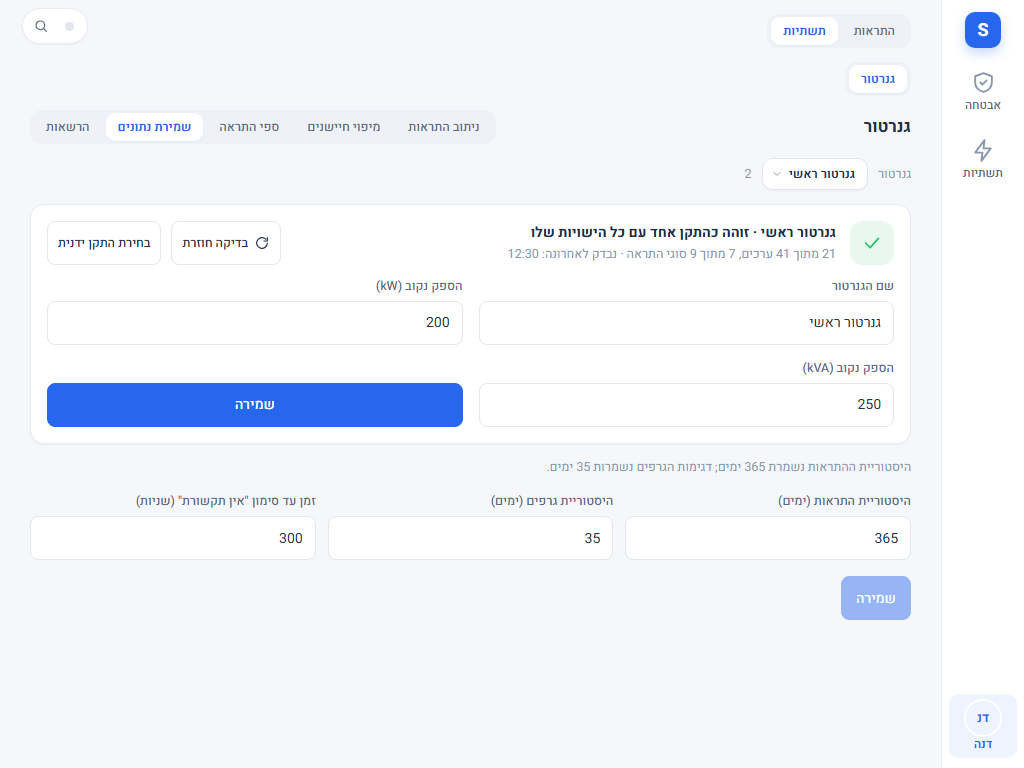
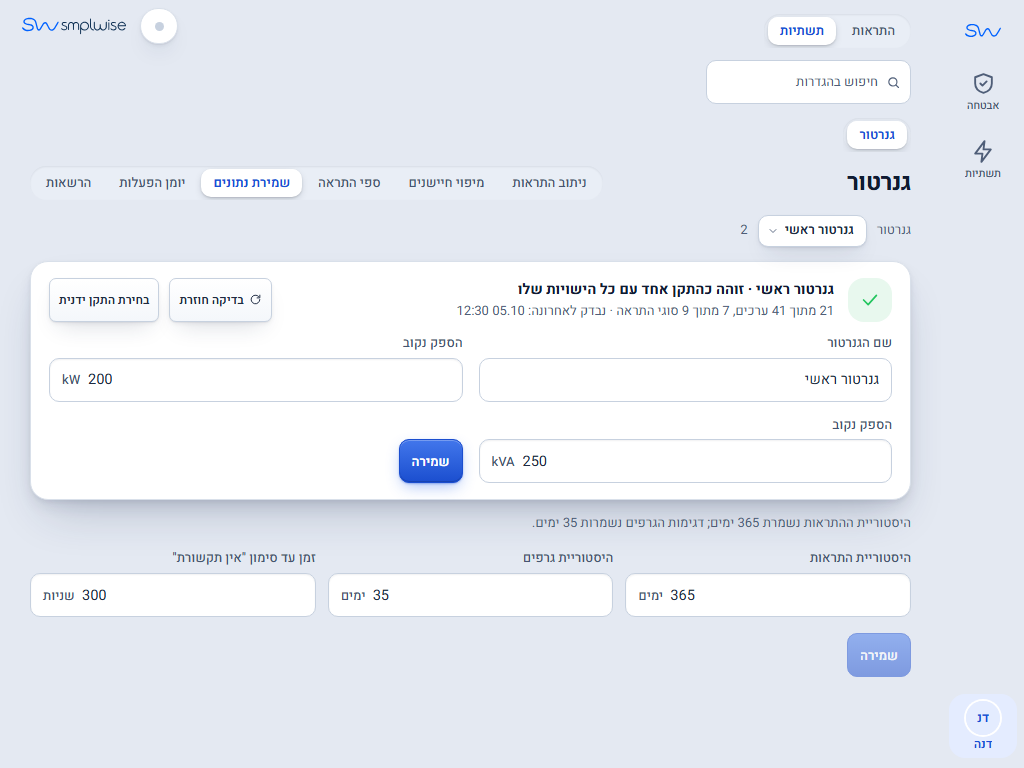
feat(generator): GEN-UNITS-FIELD-2490 - settings units move into the field frame
Rated power, alert thresholds, retention and run-log thresholds use the shared
sw-field unit slot (as electricity and water); the labels lose the "(unit)" part.
Values, validation and saved data are unchanged. Evidence PNGs of the thresholds
and retention pages refreshed.

diff --git a/frontend/src/generator/gen-settings.ts b/frontend/src/generator/gen-settings.ts
@@ -2,6 +2,7 @@ import { LitElement, html, css, nothing } from 'lit';
 import '../components/sw-button';
 import { customElement, property, state } from 'lit/decorators.js';
 import '../components/sw-tabs';
+import '../components/sw-field';
 import '../components/sw-dropdown';
 import '../components/sw-icon';
 import '../components/sw-state-panel';
@@ -25,6 +26,10 @@ import { glt, type GltKey } from '../i18n/generator-log';
 import { tr } from '../i18n/msg/misc';
 
 const S = he.generator.settings;
+/** GEN-UNITS-FIELD-2490: the unit of a value sits inside the field's frame (sw-field unit), not in its label - as electricity and water do. */
+const TH_UNIT: Record<string, string> = { oil_min_bar: S.units.bar, coolant_max_c: S.units.c, fuel_low_pct: S.units.pct, fuel_empty_pct: S.units.pct, overload_pct: S.units.pct, v_min: S.units.v, v_max: S.units.v, hz_min: S.units.hz, hz_max: S.units.hz, battery_min_12v: S.units.v, battery_min_24v: S.units.v, service_warn_h: S.units.hAhead, service_every_h: S.units.h };
+const RET_UNIT: Record<string, string> = { alert_retention_days: S.units.days, history_retention_days: S.units.days, stale_after_s: S.units.s };
+const LOG_UNIT: Record<string, string> = { min_run_s: S.units.s, mains_lookback_s: S.units.s, test_min_minutes: S.units.min, test_max_minutes: S.units.min, test_interval_days: S.units.days, no_data_close_min: S.units.min, refill_min_pct: S.units.pct, refill_settle_min: S.units.min, drop_min_pct: S.units.pct, fuel_window_h: S.units.h, retention_days: S.units.days };
 // GENLOG092-295: 'log' = the run log's switch and every threshold / window of it
 const SUBS = ['routing', 'mapping', 'thresholds', 'retention', 'log', 'permissions'] as const;
 type Sub = (typeof SUBS)[number];
@@ -150,8 +155,8 @@ export class GenSettings_ extends LitElement {
       <div class="row"><sw-button size="sm" icon="refresh" ?disabled=${this.busy} @click=${() => this.rescan()} data-rescan>${S.rescan}</sw-button><sw-button size="sm" @click=${() => this.openPick()} data-manual>${S.manualPick}</sw-button></div></div>
       <div class="form" style="margin-block-start:12px">
         <div class="fld"><label for="gname">${S.name}</label><input id="gname" .value=${this.nameEdit} maxlength="80" @input=${(e: Event) => (this.nameEdit = (e.target as HTMLInputElement).value)} /></div>
-        <div class="fld"><label for="gkw">${S.rated}</label><input id="gkw" type="number" min="0" .value=${this.ratedEdit} @input=${(e: Event) => (this.ratedEdit = (e.target as HTMLInputElement).value)} /></div>
-        <div class="fld"><label for="gkva">${S.ratedKva}</label><input id="gkva" type="number" min="0" .value=${this.ratedKvaEdit} @input=${(e: Event) => (this.ratedKvaEdit = (e.target as HTMLInputElement).value)} /></div>
+        <sw-field class="fld" label=${S.rated} unit=${S.units.kw}><input id="gkw" class="ltr" type="number" min="0" .value=${this.ratedEdit} @input=${(e: Event) => (this.ratedEdit = (e.target as HTMLInputElement).value)} /></sw-field>
+        <sw-field class="fld" label=${S.ratedKva} unit=${S.units.kva}><input id="gkva" class="ltr" type="number" min="0" .value=${this.ratedKvaEdit} @input=${(e: Event) => (this.ratedKvaEdit = (e.target as HTMLInputElement).value)} /></sw-field>
         <div class="fld"><label>&nbsp;</label><sw-button variant="primary" ?disabled=${this.busy || !this.nameEdit.trim()} @click=${() => this.saveMeta()} data-save-meta>${S.save}</sw-button></div></div></div>`;
   }
   private async rescan() {
@@ -210,9 +215,9 @@ export class GenSettings_ extends LitElement {
     const keys = Object.keys(s.threshold_defaults);
     const val = (k: string) => (k in this.thEdits ? this.thEdits[k] : String(eff[k] ?? s.threshold_defaults[k]));
     return html`<div class="col" data-section="thresholds"><div class="mut">${S.thIntro}</div>
-      <div class="th-grid">${keys.map((k) => { const lim = s.threshold_limits[k] ?? [0, 1e6]; return html`<div class="fld"><label for=${`th-${k}`}>${(S.th as Record<string, string>)[k] ?? k}</label>
-        <input id=${`th-${k}`} type="number" step="any" min=${lim[0]} max=${lim[1]} .value=${val(k)} @input=${(e: Event) => (this.thEdits = { ...this.thEdits, [k]: (e.target as HTMLInputElement).value })} />
-        <span class="mut">${fill(S.thDefault, { n: s.threshold_defaults[k] })}</span></div>`; })}</div>
+      <div class="th-grid">${keys.map((k) => { const lim = s.threshold_limits[k] ?? [0, 1e6]; return html`<sw-field class="fld" label=${(S.th as Record<string, string>)[k] ?? k} unit=${TH_UNIT[k] ?? ''}>
+        <input id=${`th-${k}`} class="ltr" type="number" step="any" min=${lim[0]} max=${lim[1]} .value=${val(k)} @input=${(e: Event) => (this.thEdits = { ...this.thEdits, [k]: (e.target as HTMLInputElement).value })} />
+        <span class="mut" slot="message">${fill(S.thDefault, { n: s.threshold_defaults[k] })}</span></sw-field>`; })}</div>
       <div class="row"><sw-button variant="primary" ?disabled=${this.busy || !Object.keys(this.thEdits).length || !this.device} @click=${() => this.run(async () => {
         const body: Record<string, number> = {};
         for (const k of keys) { const v = Number(val(k)); if (Number.isFinite(v) && v !== s.threshold_defaults[k]) body[k] = v; }
@@ -225,7 +230,7 @@ export class GenSettings_ extends LitElement {
     const s = this.settings!;
     const rows: [string, string, number][] = [['alert_retention_days', S.retAlerts, s.alert_retention_days], ['history_retention_days', S.retHistory, s.history_retention_days], ['stale_after_s', S.retStale, s.stale_after_s]];
     return html`<div class="col" data-section="retention"><div class="mut">${fill(S.retInfo, { a: s.alert_retention_days, h: s.history_retention_days })}</div>
-      <div class="th-grid">${rows.map(([k, label, cur]) => { const lim = s.limits[k] ?? [0, 1e6]; return html`<div class="fld"><label for=${`rt-${k}`}>${label}</label><input id=${`rt-${k}`} type="number" min=${lim[0]} max=${lim[1]} .value=${k in this.retEdits ? this.retEdits[k] : String(cur)} @input=${(e: Event) => (this.retEdits = { ...this.retEdits, [k]: (e.target as HTMLInputElement).value })} /></div>`; })}</div>
+      <div class="th-grid">${rows.map(([k, label, cur]) => { const lim = s.limits[k] ?? [0, 1e6]; return html`<sw-field class="fld" label=${label} unit=${RET_UNIT[k] ?? ''}><input id=${`rt-${k}`} class="ltr" type="number" min=${lim[0]} max=${lim[1]} .value=${k in this.retEdits ? this.retEdits[k] : String(cur)} @input=${(e: Event) => (this.retEdits = { ...this.retEdits, [k]: (e.target as HTMLInputElement).value })} /></sw-field>`; })}</div>
       <div class="row"><sw-button variant="primary" ?disabled=${this.busy || !Object.keys(this.retEdits).length} @click=${() => this.run(async () => {
         const body: Record<string, number> = {};
         for (const [k, v] of Object.entries(this.retEdits)) body[k] = Number(v);
@@ -245,10 +250,10 @@ export class GenSettings_ extends LitElement {
       <label class="row" style="gap:8px"><input type="checkbox" .checked=${enabled} data-log-enabled @change=${(e: Event) => (this.logEdits = { ...this.logEdits, log_enabled: (e.target as HTMLInputElement).checked })} /><b>${glt('setEnabled')}</b></label>
       <div class="th-grid">${Object.entries(specs).map(([k, sp]) => sp.type === 'bool'
         ? html`<div class="fld"><label class="row" style="gap:8px"><input type="checkbox" .checked=${Boolean(val(k))} data-log-set=${k} @change=${(e: Event) => (this.logEdits = { ...this.logEdits, [k]: (e.target as HTMLInputElement).checked })} />${glt(`set_${k}` as GltKey)}</label></div>`
-        : html`<div class="fld"><label for=${`lg-${k}`}>${glt(`set_${k}` as GltKey)}</label>
-          <input id=${`lg-${k}`} type="number" step=${sp.type === 'float' ? '0.5' : '1'} min=${sp.min ?? ''} max=${sp.max ?? ''} .value=${String(val(k) ?? '')} data-log-set=${k}
+        : html`<sw-field class="fld" label=${glt(`set_${k}` as GltKey)} unit=${LOG_UNIT[k] ?? ''}>
+          <input id=${`lg-${k}`} class="ltr" type="number" step=${sp.type === 'float' ? '0.5' : '1'} min=${sp.min ?? ''} max=${sp.max ?? ''} .value=${String(val(k) ?? '')} data-log-set=${k}
             @input=${(e: Event) => (this.logEdits = { ...this.logEdits, [k]: (e.target as HTMLInputElement).value })} />
-          <span class="mut">${fill(S.thDefault, { n: String(sp.default) })}</span></div>`)}</div>
+          <span class="mut" slot="message">${fill(S.thDefault, { n: String(sp.default) })}</span></sw-field>`)}</div>
       <div class="row"><sw-button variant="primary" ?disabled=${this.busy || !Object.keys(this.logEdits).length} data-save-log @click=${() => this.run(async () => {
         const log: Record<string, number | boolean> = {};
         for (const [k, v] of Object.entries(this.logEdits)) {

diff --git a/frontend/src/i18n/he.ts b/frontend/src/i18n/he.ts
@@ -260,12 +260,13 @@ export const he = {
       detectionNoneBody: 'הזיהוי סורק את רשימת ההתקנים ומחפש התקן שישויותיו מתאימות לבקר גנרטור (מצב מנוע ומתח לפחות).',
       detectionCounts: '{n} מתוך {total} ערכים, {m} מתוך {mt} סוגי התראה', detectionPartial: 'זוהה חלקית',
       rescan: 'בדיקה חוזרת', manualPick: 'בחירת התקן ידנית', manualSearch: 'חיפוש התקן', manualRoles: '{n} חיבורים מזוהים', manualAdd: 'הוספה', manualRegistered: 'כבר מוגדר', manualNone: 'לא נמצאו התקנים',
-      name: 'שם הגנרטור', rated: 'הספק נקוב (kW)', ratedKva: 'הספק נקוב (kVA)', saved: 'נשמר', save: 'שמירה', reset: 'שחזור ברירות המחדל', cancel: 'ביטול', lastCheck: 'נבדק לאחרונה: {t}',
+      name: 'שם הגנרטור', rated: 'הספק נקוב', ratedKva: 'הספק נקוב', saved: 'נשמר', save: 'שמירה', reset: 'שחזור ברירות המחדל', cancel: 'ביטול', lastCheck: 'נבדק לאחרונה: {t}',
       mapIntro: 'כל חיישן של הבקר משויך לתפקיד. כאן אפשר לתקן שיוך שזוהה לא נכון; השינוי נקלט מיד.', mapRole: 'תפקיד', mapSensor: 'חיישן', mapAuto: 'אוטומטי', mapManual: 'ידני', mapNone: 'לא ממופה',
       mapDisabled: 'החיישן קיים אך מושבת במקור', mapCore: 'חובה', mapAuto2: 'אוטומטי (ברירת מחדל)', mapClear: 'ללא חיישן', mapSave: 'שמירת המיפוי',
+      units: { kw: 'kW', kva: 'kVA', bar: 'bar', c: '°C', pct: '%', v: 'V', hz: 'Hz', h: 'שעות', hAhead: 'שעות מראש', s: 'שניות', min: 'דקות', days: 'ימים' },
       thIntro: 'ספי ההתראה נקבעים כאן ומחושבים במערכת; הם אינם משנים דבר בבקר עצמו.', thDefault: 'ברירת מחדל {n}',
-      th: { oil_min_bar: 'לחץ שמן מינימלי (bar)', coolant_max_c: 'טמפרטורת נוזל קירור מקסימלית (°C)', rpm_max: 'סל״ד מקסימלי', fuel_low_pct: 'דלק נמוך (%)', fuel_empty_pct: 'דלק אזל (%)', overload_pct: 'עומס יתר (%)', v_min: 'מתח מינימלי (V)', v_max: 'מתח מקסימלי (V)', hz_min: 'תדר מינימלי (Hz)', hz_max: 'תדר מקסימלי (Hz)', battery_min_12v: 'מצבר 12V מינימלי (V)', battery_min_24v: 'מצבר 24V מינימלי (V)', service_warn_h: 'תזכורת טיפול (שעות מראש)', service_every_h: 'מרווח טיפול (שעות)', running_rpm: 'סל״ד שנחשב פועל' },
-      retAlerts: 'היסטוריית התראות (ימים)', retHistory: 'היסטוריית גרפים (ימים)', retStale: 'זמן עד סימון "אין תקשורת" (שניות)', retInfo: 'היסטוריית ההתראות נשמרת {a} ימים; דגימות הגרפים נשמרות {h} ימים.',
+      th: { oil_min_bar: 'לחץ שמן מינימלי', coolant_max_c: 'טמפרטורת נוזל קירור מקסימלית', rpm_max: 'סל״ד מקסימלי', fuel_low_pct: 'דלק נמוך', fuel_empty_pct: 'דלק אזל', overload_pct: 'עומס יתר', v_min: 'מתח מינימלי', v_max: 'מתח מקסימלי', hz_min: 'תדר מינימלי', hz_max: 'תדר מקסימלי', battery_min_12v: 'מצבר 12V מינימלי', battery_min_24v: 'מצבר 24V מינימלי', service_warn_h: 'תזכורת טיפול', service_every_h: 'מרווח טיפול', running_rpm: 'סל״ד שנחשב פועל' },
+      retAlerts: 'היסטוריית התראות', retHistory: 'היסטוריית גרפים', retStale: 'זמן עד סימון "אין תקשורת"', retInfo: 'היסטוריית ההתראות נשמרת {a} ימים; דגימות הגרפים נשמרות {h} ימים.',
       permsBody: 'הרשאות הגנרטור מוגדרות בתפקידים: צפייה והתראות, וניהול והגדרות.', permsLink: 'למסך המשתמשים וההרשאות',
       routingEmpty: 'לא נבחרו נמענים', routingEmptyBody: 'ההתראות יישמרו במרכז ההתראות בלבד עד שתבחרו נמענים לכל סוג התראה. נוסחי ההודעות כבר מוכנים לכל סוג.',
       routingNote: 'ניתוב ההתראות נשמר כאן; המסירה בפועל לכל ערוץ מתבצעת דרך מרכז ההתראות של המערכת.',

diff --git a/frontend/src/i18n/lang/en/i18n/en.ts b/frontend/src/i18n/lang/en/i18n/en.ts
@@ -262,12 +262,13 @@ export const en = {
       detectionNoneBody: 'Detection scans the device list for a device whose entities match a generator controller (at least engine state and voltage).',
       detectionCounts: '{n} of {total} values, {m} of {mt} alert types', detectionPartial: 'Partly detected',
       rescan: 'Check again', manualPick: 'Choose a device manually', manualSearch: 'Search for a device', manualRoles: '{n} connections recognised', manualAdd: 'Add', manualRegistered: 'Already set up', manualNone: 'No devices found',
-      name: 'Generator name', rated: 'Rated power (kW)', ratedKva: 'Rated power (kVA)', saved: 'Saved', save: 'Save', reset: 'Restore the defaults', cancel: 'Cancel', lastCheck: 'Last checked: {t}',
+      name: 'Generator name', rated: 'Rated power', ratedKva: 'Rated power', saved: 'Saved', save: 'Save', reset: 'Restore the defaults', cancel: 'Cancel', lastCheck: 'Last checked: {t}',
       mapIntro: 'Each controller sensor is assigned to a role. Here you can fix an assignment that was detected wrongly; the change takes effect at once.', mapRole: 'Role', mapSensor: 'Sensor', mapAuto: 'Automatic', mapManual: 'Manual', mapNone: 'Not mapped',
       mapDisabled: 'The sensor exists but is disabled at the source', mapCore: 'Required', mapAuto2: 'Automatic (default)', mapClear: 'No sensor', mapSave: 'Save the mapping',
+      units: { kw: 'kW', kva: 'kVA', bar: 'bar', c: '°C', pct: '%', v: 'V', hz: 'Hz', h: 'hours', hAhead: 'hours ahead', s: 'seconds', min: 'minutes', days: 'days' },
       thIntro: 'Alert thresholds are set here and calculated by the system; they change nothing in the controller itself.', thDefault: 'Default {n}',
-      th: { oil_min_bar: 'Minimum oil pressure (bar)', coolant_max_c: 'Maximum coolant temperature (°C)', rpm_max: 'Maximum RPM', fuel_low_pct: 'Low fuel (%)', fuel_empty_pct: 'Fuel empty (%)', overload_pct: 'Overload (%)', v_min: 'Minimum voltage (V)', v_max: 'Maximum voltage (V)', hz_min: 'Minimum frequency (Hz)', hz_max: 'Maximum frequency (Hz)', battery_min_12v: 'Minimum 12V battery (V)', battery_min_24v: 'Minimum 24V battery (V)', service_warn_h: 'Service reminder (hours ahead)', service_every_h: 'Service interval (hours)', running_rpm: 'RPM that counts as running' },
-      retAlerts: 'Alert history (days)', retHistory: 'Chart history (days)', retStale: 'Time until "No communication" is shown (seconds)', retInfo: 'Alert history is kept for {a} days; chart samples are kept for {h} days.',
+      th: { oil_min_bar: 'Minimum oil pressure', coolant_max_c: 'Maximum coolant temperature', rpm_max: 'Maximum RPM', fuel_low_pct: 'Low fuel', fuel_empty_pct: 'Fuel empty', overload_pct: 'Overload', v_min: 'Minimum voltage', v_max: 'Maximum voltage', hz_min: 'Minimum frequency', hz_max: 'Maximum frequency', battery_min_12v: 'Minimum 12V battery', battery_min_24v: 'Minimum 24V battery', service_warn_h: 'Service reminder', service_every_h: 'Service interval', running_rpm: 'RPM that counts as running' },
+      retAlerts: 'Alert history', retHistory: 'Chart history', retStale: 'Time until "No communication" is shown', retInfo: 'Alert history is kept for {a} days; chart samples are kept for {h} days.',
       permsBody: 'Generator permissions are set in the roles: view and alerts, and management and settings.', permsLink: 'To users and permissions',
       routingEmpty: 'No recipients chosen', routingEmptyBody: 'Until you choose recipients for each alert type, alerts are kept in the notification centre only. The message texts are already prepared for every type.',
       routingNote: 'Alert routing is saved here; the actual delivery to each channel goes through the system notification centre.',

diff --git a/frontend/src/i18n/generator-log.ts b/frontend/src/i18n/generator-log.ts
@@ -65,18 +65,18 @@ const he = {
   setSub: 'יומן הפעלות',
   setIntro: 'יומן ההפעלות נגזר מקריאות הבקר ואינו שולח דבר לבקר. כל הספים והחלונות כאן.',
   setEnabled: 'הצגת יומן ההפעלות במסך הגנרטור',
-  set_min_run_s: 'ריצה קצרה מזה אינה נרשמת (שניות)',
-  set_mains_lookback_s: 'הרשת נפלה עד כך לפני ההתנעה = הפסקת רשת (שניות)',
-  set_test_min_minutes: 'מבחן קצר מזה מסומן "מבחן קצר" (דקות)',
-  set_test_max_minutes: 'ריצה ללא עומס ארוכה מזה אינה מבחן (דקות)',
+  set_min_run_s: 'ריצה קצרה מזה אינה נרשמת',
+  set_mains_lookback_s: 'הרשת נפלה עד כך לפני ההתנעה = הפסקת רשת',
+  set_test_min_minutes: 'מבחן קצר מזה מסומן "מבחן קצר"',
+  set_test_max_minutes: 'ריצה ללא עומס ארוכה מזה אינה מבחן',
   set_classify_unloaded_as_test: 'ריצה ללא עומס כשהרשת תקינה נחשבת מבחן',
-  set_test_interval_days: 'מרווח המבחנים הצפוי (ימים, 0 = ללא מעקב)',
-  set_no_data_close_min: 'ריצה ללא קריאות נסגרת אחרי (דקות)',
-  set_refill_min_pct: 'עלייה במפלס שנחשבת מילוי (%)',
-  set_refill_settle_min: 'המילוי נסגר אחרי שהמפלס יציב (דקות)',
-  set_drop_min_pct: 'ירידה במנוחה שנרשמת לבדיקה (%)',
-  set_fuel_window_h: 'חלון ההשוואה של מפלס הדלק (שעות)',
-  set_retention_days: 'שמירת היומן (ימים)',
+  set_test_interval_days: 'מרווח המבחנים הצפוי (0 = ללא מעקב)',
+  set_no_data_close_min: 'ריצה ללא קריאות נסגרת אחרי',
+  set_refill_min_pct: 'עלייה במפלס שנחשבת מילוי',
+  set_refill_settle_min: 'המילוי נסגר אחרי שהמפלס יציב',
+  set_drop_min_pct: 'ירידה במנוחה שנרשמת לבדיקה',
+  set_fuel_window_h: 'חלון ההשוואה של מפלס הדלק',
+  set_retention_days: 'שמירת היומן',
 };
 
 type Key = keyof typeof he;

diff --git a/frontend/src/i18n/lang/en/i18n/generator-log.ts b/frontend/src/i18n/lang/en/i18n/generator-log.ts
@@ -61,16 +61,16 @@ export const en = {
   setSub: 'Run log',
   setIntro: 'The run log is derived from the controller readings and never sends anything to the controller. Every threshold and window is here.',
   setEnabled: 'Show the run log on the generator screen',
-  set_min_run_s: 'A run shorter than this is not logged (seconds)',
-  set_mains_lookback_s: 'Mains lost this long before the start = mains failure (seconds)',
-  set_test_min_minutes: 'A test shorter than this is marked "short test" (minutes)',
-  set_test_max_minutes: 'An unloaded run longer than this is not a test (minutes)',
+  set_min_run_s: 'A run shorter than this is not logged',
+  set_mains_lookback_s: 'Mains lost this long before the start = mains failure',
+  set_test_min_minutes: 'A test shorter than this is marked "short test"',
+  set_test_max_minutes: 'An unloaded run longer than this is not a test',
   set_classify_unloaded_as_test: 'An unloaded run with the mains present counts as a test',
-  set_test_interval_days: 'Expected test interval (days, 0 = not tracked)',
-  set_no_data_close_min: 'A run without readings closes after (minutes)',
-  set_refill_min_pct: 'A level rise that counts as a refill (%)',
-  set_refill_settle_min: 'A refill closes once the level is stable (minutes)',
-  set_drop_min_pct: 'A drop at rest logged for a check (%)',
-  set_fuel_window_h: 'Fuel level comparison window (hours)',
-  set_retention_days: 'Keep the log (days)',
+  set_test_interval_days: 'Expected test interval (0 = not tracked)',
+  set_no_data_close_min: 'A run without readings closes after',
+  set_refill_min_pct: 'A level rise that counts as a refill',
+  set_refill_settle_min: 'A refill closes once the level is stable',
+  set_drop_min_pct: 'A drop at rest logged for a check',
+  set_fuel_window_h: 'Fuel level comparison window',
+  set_retention_days: 'Keep the log',
 };

diff --git a/docs/changes/GEN-UNITS-FIELD-2490.md b/docs/changes/GEN-UNITS-FIELD-2490.md
@@ -1,0 +1,25 @@
+# GEN-UNITS-FIELD-2490 - generator settings: units inside the field frame
+
+Owner decision Q16 (N54). Base: main 619f94d04. Branch: pilot/GEN-UNITS-FIELD-2490.
+
+## What changed
+
+- `frontend/src/generator/gen-settings.ts`: the rated power (kW, kVA), the alert thresholds, the retention windows and the run-log
+  thresholds are `sw-field` fields with the shared `unit` slot (the same component and look as electricity and water). The
+  "default N" line moved to the field's `message` slot (outside the unit frame).
+- Labels lost their "(unit)" suffix in `he.ts`, `lang/en/i18n/en.ts` and both `generator-log.ts` catalogues; a new `settings.units`
+  table carries the unit words (kW, kVA, bar, C, %, V, Hz, hours, hours ahead, seconds, minutes, days) in Hebrew and English.
+- Unchanged: element ids, `data-*` hooks, values, min/max validation, request bodies and saved data.
+
+## Progress note
+
+| Row | State |
+|---|---|
+| Component reuse (`sw-field`, CR-FIELD-UNIT-2470), no new look | done |
+| Labels without units, Hebrew + English tables | done |
+| PC: tsc, eslint on touched files, unit specs (144 passed), generator evidence specs (36 passed) | done |
+| Before/after captures (private/planning/gen_units_2490_compare_2026-11-23.html) | done |
+| Runner evidence run | see the branch report |
+
+Known limit (pre-existing, not changed here): the generator settings screen reads the Hebrew catalogue object directly, so labels
+and the unit words stay Hebrew in an English session; the English tables are filled and parity-checked.
